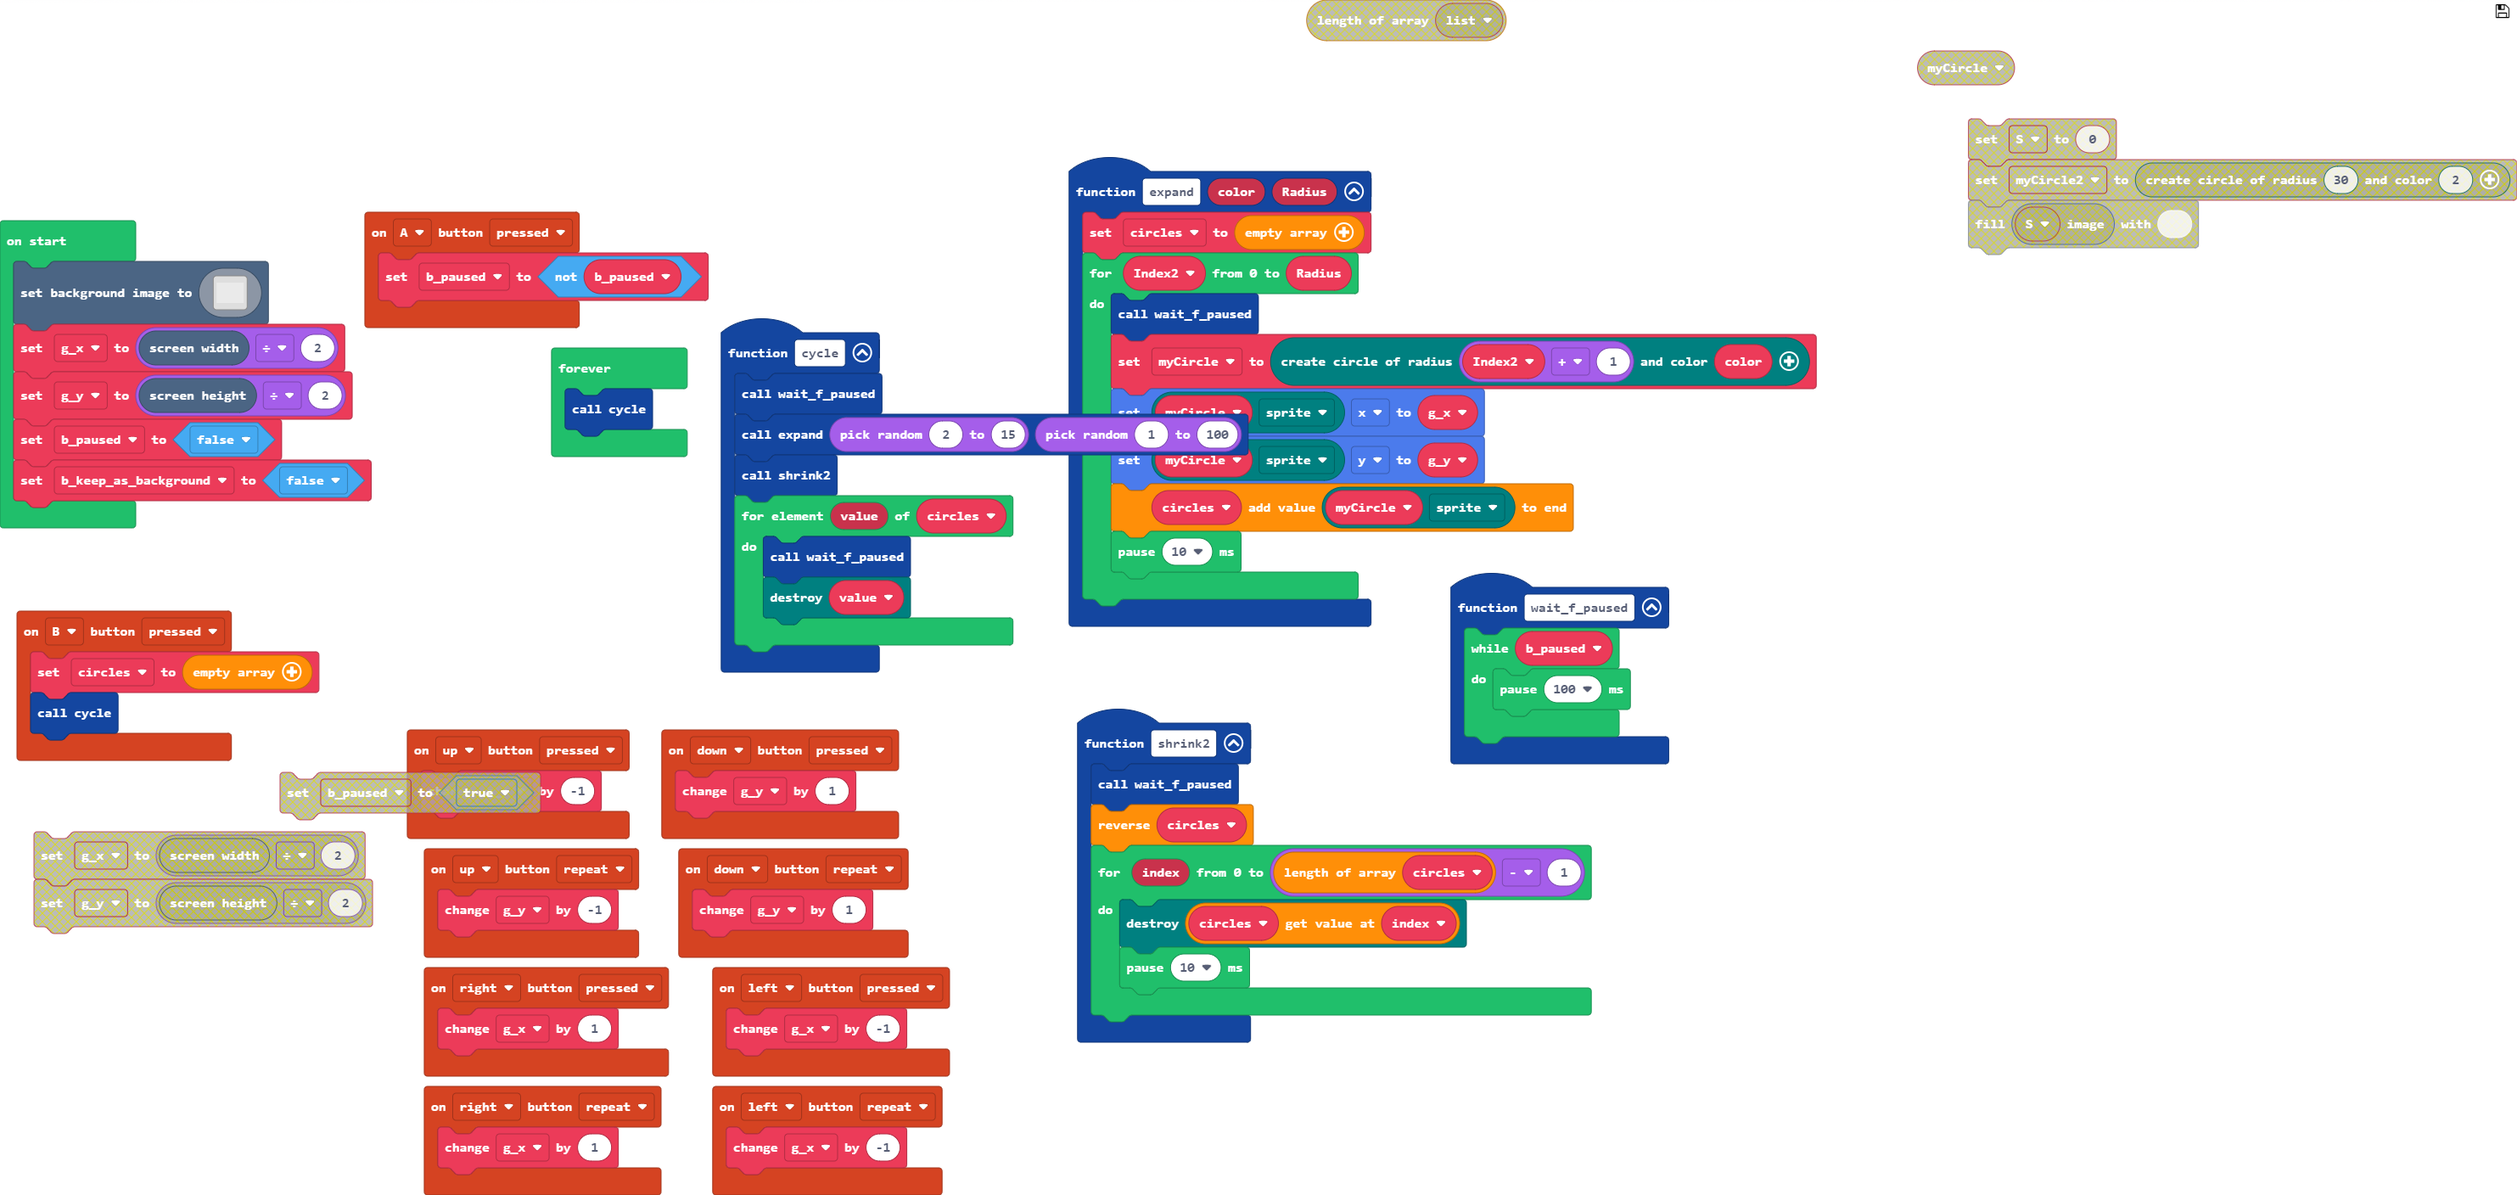
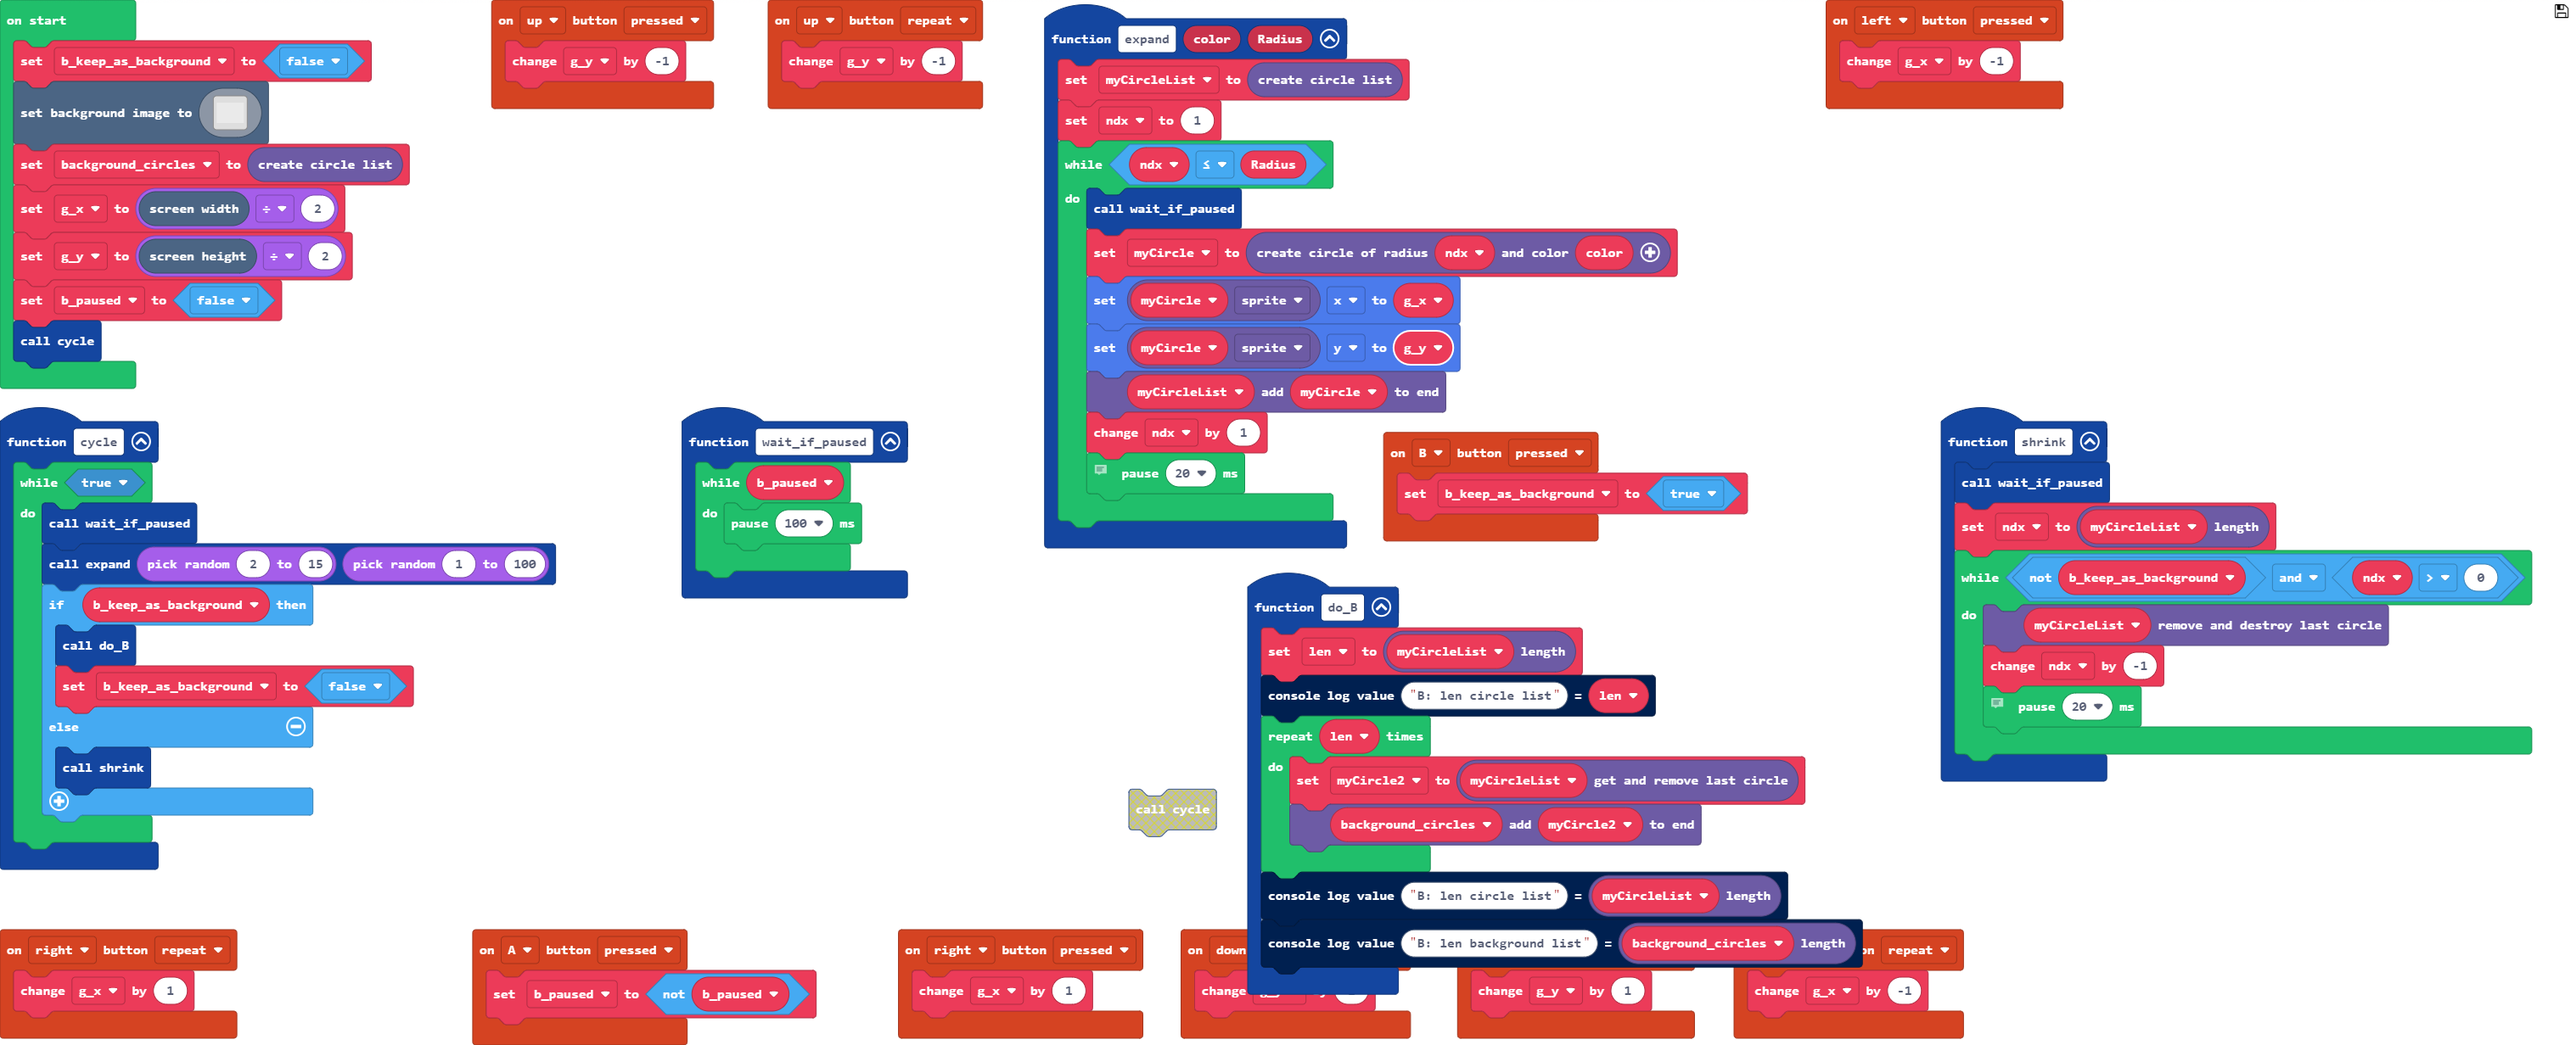
Update main.blocks, main.ts

diff --git a/main.ts b/main.ts
@@ -1,20 +1,11 @@
 namespace SpriteKind {
     export const circle = SpriteKind.create()
 }
-function shrink2 () {
-    wait_f_paused()
-    circles.reverse()
-    for (let index = 0; index <= circles.length - 1; index++) {
-        circles[index].destroy()
-        pause(10)
-    }
-}
 controller.up.onEvent(ControllerButtonEvent.Pressed, function () {
     g_y += -1
 })
 controller.B.onEvent(ControllerButtonEvent.Pressed, function () {
-    circles = []
-    cycle()
+    b_keep_as_background = true
 })
 controller.up.onEvent(ControllerButtonEvent.Repeated, function () {
     g_y += -1
@@ -23,14 +14,28 @@ controller.A.onEvent(ControllerButtonEvent.Pressed, function () {
     b_paused = !(b_paused)
 })
 function expand (color: number, Radius: number) {
-    circles = []
-    for (let Index2 = 0; Index2 <= Radius; Index2++) {
-        wait_f_paused()
-        myCircle = circle.createCircleSprite(Index2 + 1, color)
+    myCircleList = circle.emptyCircleList()
+    ndx = 1
+    while (ndx <= Radius) {
+        wait_if_paused()
+        myCircle = circle.createCircleSprite(ndx, color)
         myCircle.circle.x = g_x
         myCircle.circle.y = g_y
-        circles.push(myCircle.circle)
-        pause(10)
+        myCircleList.addCircleToEnd(myCircle)
+        ndx += 1
+        // x and y
+        // add to DAL.DEVICE_COMPONENT_LISTENERS_CONFIGURED
+        pause(20)
+    }
+}
+function shrink () {
+    wait_if_paused()
+    ndx = myCircleList.length()
+    while (!(b_keep_as_background) && ndx > 0) {
+        myCircleList.removeAndDestroyLast()
+        ndx += -1
+        // circles[index].destroy()
+        pause(20)
     }
 }
 controller.right.onEvent(ControllerButtonEvent.Repeated, function () {
@@ -43,12 +48,15 @@ controller.right.onEvent(ControllerButtonEvent.Pressed, function () {
     g_x += 1
 })
 function cycle () {
-    wait_f_paused()
-    expand(randint(2, 15), randint(1, 100))
-    shrink2()
-    for (let value of circles) {
-        wait_f_paused()
-        value.destroy()
+    while (true) {
+        wait_if_paused()
+        expand(randint(2, 15), randint(1, 100))
+        if (b_keep_as_background) {
+            do_B()
+            b_keep_as_background = false
+        } else {
+            shrink()
+        }
     }
 }
 controller.down.onEvent(ControllerButtonEvent.Repeated, function () {
@@ -57,7 +65,17 @@ controller.down.onEvent(ControllerButtonEvent.Repeated, function () {
 controller.down.onEvent(ControllerButtonEvent.Pressed, function () {
     g_y += 1
 })
-function wait_f_paused () {
+function do_B () {
+    len = myCircleList.length()
+    console.logValue("B: len circle list", len)
+    for (let index = 0; index < len; index++) {
+        myCircle2 = myCircleList.getAndRemoveLast()
+        background_circles.addCircleToEnd(myCircle2)
+    }
+    console.logValue("B: len circle list", myCircleList.length())
+    console.logValue("B: len background list", background_circles.length())
+}
+function wait_if_paused () {
     while (b_paused) {
         pause(100)
     }
@@ -65,11 +83,17 @@ function wait_f_paused () {
 controller.left.onEvent(ControllerButtonEvent.Repeated, function () {
     g_x += -1
 })
+let myCircle2: Circle = null
+let len = 0
 let myCircle: Circle = null
-let circles: Sprite[] = []
+let ndx = 0
+let myCircleList: CircleList = null
 let b_paused = false
 let g_y = 0
 let g_x = 0
+let background_circles: CircleList = null
+let b_keep_as_background = false
+b_keep_as_background = false
 scene.setBackgroundImage(img`
 1 1 1 1 1 1 1 1 1 1 1 1 1 1 1 1 1 1 1 1 1 1 1 1 1 1 1 1 1 1 1 1 1 1 1 1 1 1 1 1 1 1 1 1 1 1 1 1 1 1 1 1 1 1 1 1 1 1 1 1 1 1 1 1 1 1 1 1 1 1 1 1 1 1 1 1 1 1 1 1 1 1 1 1 1 1 1 1 1 1 1 1 1 1 1 1 1 1 1 1 1 1 1 1 1 1 1 1 1 1 1 1 1 1 1 1 1 1 1 1 1 1 1 1 1 1 1 1 1 1 1 1 1 1 1 1 1 1 1 1 1 1 1 1 1 1 1 1 1 1 1 1 1 1 1 1 1 1 1 1 
 1 1 1 1 1 1 1 1 1 1 1 1 1 1 1 1 1 1 1 1 1 1 1 1 1 1 1 1 1 1 1 1 1 1 1 1 1 1 1 1 1 1 1 1 1 1 1 1 1 1 1 1 1 1 1 1 1 1 1 1 1 1 1 1 1 1 1 1 1 1 1 1 1 1 1 1 1 1 1 1 1 1 1 1 1 1 1 1 1 1 1 1 1 1 1 1 1 1 1 1 1 1 1 1 1 1 1 1 1 1 1 1 1 1 1 1 1 1 1 1 1 1 1 1 1 1 1 1 1 1 1 1 1 1 1 1 1 1 1 1 1 1 1 1 1 1 1 1 1 1 1 1 1 1 1 1 1 1 1 1 
@@ -192,10 +216,8 @@ scene.setBackgroundImage(img`
 1 1 1 1 1 1 1 1 1 1 1 1 1 1 1 1 1 1 1 1 1 1 1 1 1 1 1 1 1 1 1 1 1 1 1 1 1 1 1 1 1 1 1 1 1 1 1 1 1 1 1 1 1 1 1 1 1 1 1 1 1 1 1 1 1 1 1 1 1 1 1 1 1 1 1 1 1 1 1 1 1 1 1 1 1 1 1 1 1 1 1 1 1 1 1 1 1 1 1 1 1 1 1 1 1 1 1 1 1 1 1 1 1 1 1 1 1 1 1 1 1 1 1 1 1 1 1 1 1 1 1 1 1 1 1 1 1 1 1 1 1 1 1 1 1 1 1 1 1 1 1 1 1 1 1 1 1 1 1 1 
 1 1 1 1 1 1 1 1 1 1 1 1 1 1 1 1 1 1 1 1 1 1 1 1 1 1 1 1 1 1 1 1 1 1 1 1 1 1 1 1 1 1 1 1 1 1 1 1 1 1 1 1 1 1 1 1 1 1 1 1 1 1 1 1 1 1 1 1 1 1 1 1 1 1 1 1 1 1 1 1 1 1 1 1 1 1 1 1 1 1 1 1 1 1 1 1 1 1 1 1 1 1 1 1 1 1 1 1 1 1 1 1 1 1 1 1 1 1 1 1 1 1 1 1 1 1 1 1 1 1 1 1 1 1 1 1 1 1 1 1 1 1 1 1 1 1 1 1 1 1 1 1 1 1 1 1 1 1 1 1 
 `)
+background_circles = circle.emptyCircleList()
 g_x = scene.screenWidth() / 2
 g_y = scene.screenHeight() / 2
 b_paused = false
-let b_keep_as_background = false
-forever(function () {
-    cycle()
-})
+cycle()
